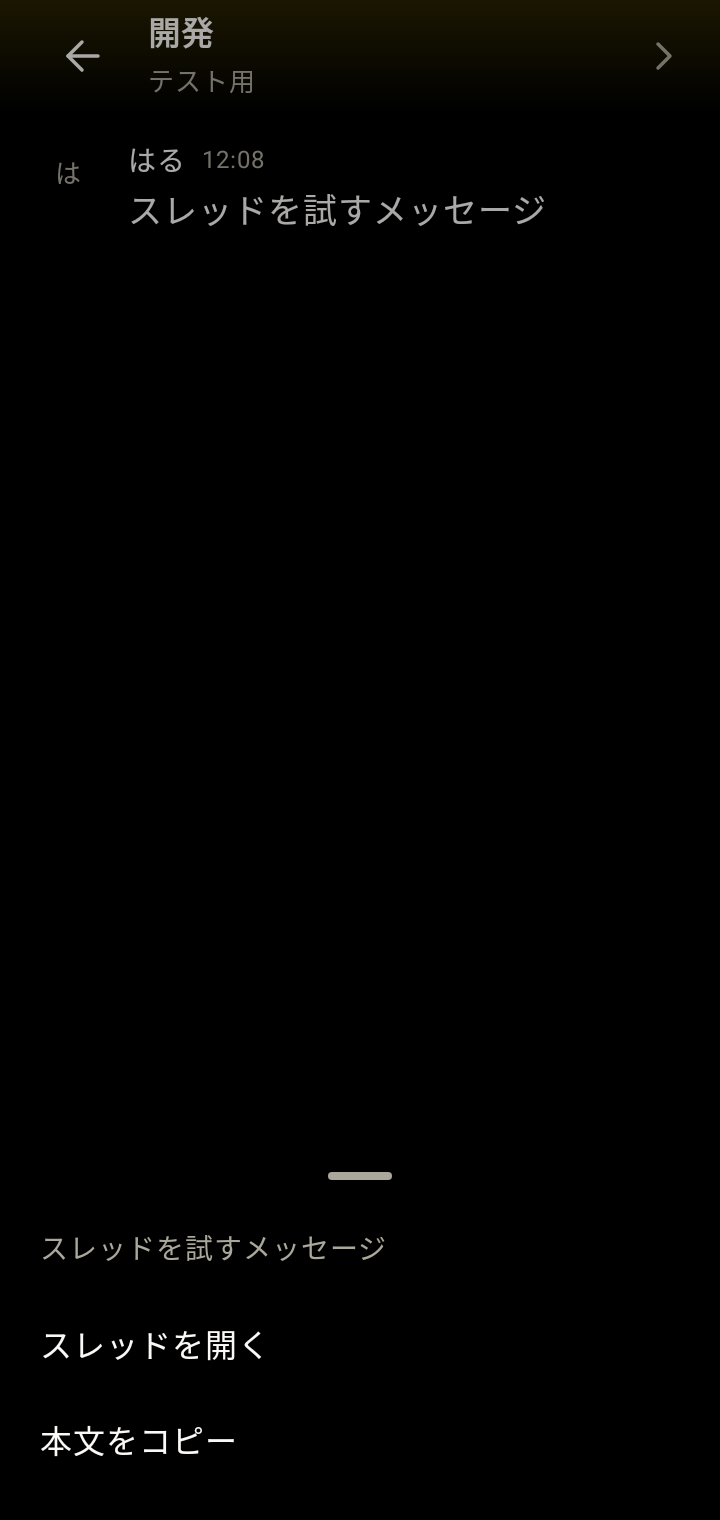
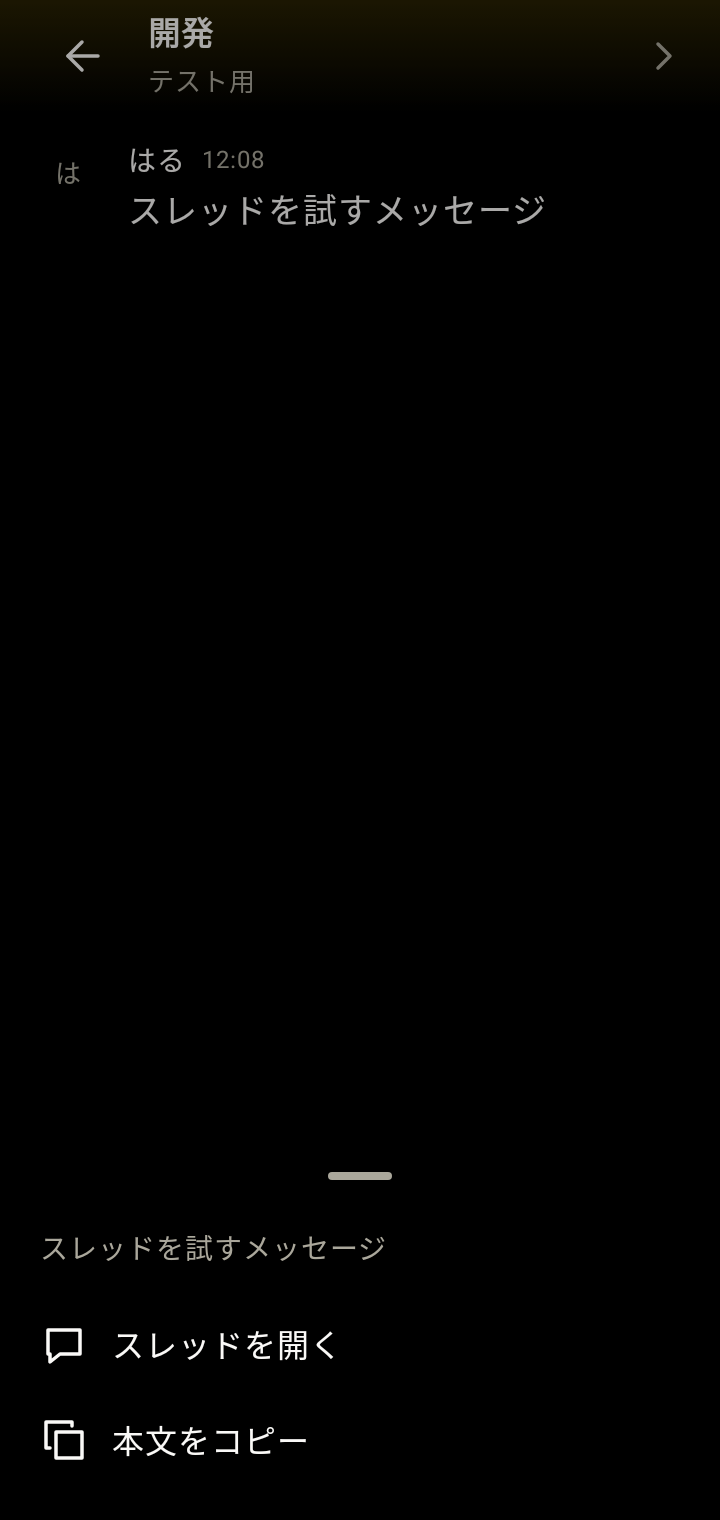
長押しメニューに操作ごとのアイコンを添える

Changed region(s): [[0.1528, 0.8658, 0.4583, 0.8967], [0.0611, 0.9276, 0.3667, 0.9586], [0.0611, 0.8658, 0.1222, 0.8967]]

diff --git a/frontend-compose/androidApp/src/main/kotlin/zoo/android/ui/EntryActionSheet.kt b/frontend-compose/androidApp/src/main/kotlin/zoo/android/ui/EntryActionSheet.kt
@@ -30,8 +30,15 @@ internal fun EntryActionSheet(
         Column(Modifier.fillMaxWidth().padding(start = 20.dp, end = 20.dp, bottom = 16.dp)) {
             Text(entry.body, color = colors.secondary, fontSize = 14.sp, maxLines = 2, overflow = TextOverflow.Ellipsis)
             Spacer(Modifier.height(12.dp))
-            if (open != null) SheetAction(if (posts) "投稿を開く" else "スレッドを開く", colors, open)
-            SheetAction("本文をコピー", colors) {
+            if (open != null) {
+                SheetAction(
+                    if (posts) UiIcon.Document else UiIcon.Bubble,
+                    if (posts) "投稿を開く" else "スレッドを開く",
+                    colors,
+                    open,
+                )
+            }
+            SheetAction(UiIcon.Copy, "本文をコピー", colors) {
                 scope.launch {
                     clipboard.setClipEntry(ClipEntry(ClipData.newPlainText(null, entry.body)))
                     dismiss()
@@ -42,12 +49,14 @@ internal fun EntryActionSheet(
 }
 
 @Composable
-private fun SheetAction(title: String, colors: AndroidColors, click: () -> Unit) {
-    Box(
+private fun SheetAction(icon: UiIcon, title: String, colors: AndroidColors, click: () -> Unit) {
+    Row(
         Modifier.fillMaxWidth().heightIn(min = AndroidControlSize.target)
             .clickable(role = Role.Button, onClick = click),
-        contentAlignment = Alignment.CenterStart,
+        verticalAlignment = Alignment.CenterVertically,
+        horizontalArrangement = Arrangement.spacedBy(12.dp),
     ) {
+        UiGlyph(icon, colors.foreground)
         Text(title, color = colors.foreground, fontWeight = AndroidWeights.label)
     }
 }

diff --git a/frontend-compose/androidApp/src/main/kotlin/zoo/android/ui/UiIcon.kt b/frontend-compose/androidApp/src/main/kotlin/zoo/android/ui/UiIcon.kt
@@ -33,7 +33,7 @@ internal object AndroidControlSize {
 }
 
 internal enum class UiIcon {
-    Back, Next, Home, Channels, Bell, Bubble, Settings, Send, Attach, Format, Emoji, Create,
+    Back, Next, Home, Channels, Bell, Bubble, Settings, Send, Attach, Format, Emoji, Create, Document, Copy,
 }
 
 @Composable
@@ -95,6 +95,16 @@ internal fun UiGlyph(icon: UiIcon, color: Color) {
                 drawArc(color, 0f, 180f, false, point(8f, 11f), Size(size.width / 3, size.height / 4), style = Stroke(width))
             }
             UiIcon.Create -> lines(5 to 15, 16 to 4, 20 to 8, 9 to 19, 4 to 20, 5 to 15)
+            UiIcon.Document -> {
+                lines(6 to 3, 14 to 3, 19 to 8, 19 to 21, 6 to 21, 6 to 3)
+                lines(14 to 3, 14 to 8, 19 to 8)
+                lines(9 to 12, 16 to 12)
+                lines(9 to 16, 16 to 16)
+            }
+            UiIcon.Copy -> {
+                lines(5 to 16, 3 to 16, 3 to 3, 16 to 3, 16 to 5)
+                lines(8 to 8, 21 to 8, 21 to 21, 8 to 21, 8 to 8)
+            }
         }
     }
 }

diff --git a/frontend-compose/ui-preview/src/test/kotlin/zoo/android/ui/AndroidSamplesTest.kt b/frontend-compose/ui-preview/src/test/kotlin/zoo/android/ui/AndroidSamplesTest.kt
@@ -183,6 +183,12 @@ class AndroidSamplesTest {
         ui.runOnIdle { check(pulses.size == 1) { "Expected a single threshold pulse: $pulses" } }
         ui.onNodeWithContentDescription("戻る").performClick()
         ui.onNodeWithText("開発").assertIsDisplayed()
+        ui.runOnIdle { screen = AndroidScreen.Home(listOf(root)); dark = false }
+        message.performTouchInput { longClick() }
+        ui.onNodeWithText("投稿を開く").assertIsDisplayed()
+        capture("post-menu-light", withSheet = true)
+        ui.runOnIdle { dark = true }
+        capture("post-menu-dark", withSheet = true)
     }
 
     private fun capture(name: String, withSheet: Boolean = false) {

diff --git a/docs/android-rebuild-samples.md b/docs/android-rebuild-samples.md
@@ -14,6 +14,7 @@
 | 全画面入力 | [ライト](images/android-design/rebuild/composer-light.png) | [ダーク](images/android-design/rebuild/composer-dark.png) |
 | スレッド | [ライト](images/android-design/rebuild/thread-light.png) | [ダーク](images/android-design/rebuild/thread-dark.png) |
 | メッセージの長押しメニュー | [ライト](images/android-design/rebuild/message-menu-light.png) | [ダーク](images/android-design/rebuild/message-menu-dark.png) |
+| ホーム投稿の長押しメニュー | [ライト](images/android-design/rebuild/post-menu-light.png) | [ダーク](images/android-design/rebuild/post-menu-dark.png) |
 | 投稿詳細 | [ライト](images/android-design/rebuild/post-light.png) | [ダーク](images/android-design/rebuild/post-dark.png) |
 | 新しい投稿 | [ライト](images/android-design/rebuild/post-compose-light.png) | [ダーク](images/android-design/rebuild/post-compose-dark.png) |
 | プロフィール | [ライト](images/android-design/rebuild/profile-light.png) | [ダーク](images/android-design/rebuild/profile-dark.png) |

diff --git a/docs/android-design.md b/docs/android-design.md
@@ -74,7 +74,7 @@ Androidの見た目を変更するときの基準。数値の定義元は
 Android公式の「24dpのアイコンと48dpのタッチ領域を分ける」例を採用する。
 
 
-ホーム投稿の下では、返信・再投稿・リアクションの件数を小さなアイコンと数字で表示する。操作は長押しの下部メニューと読み上げのカスタムアクションに置く。既存リアクションの選択状態は本文と区別する。
+ホーム投稿の下では、返信・再投稿・リアクションの件数を小さなアイコンと数字で表示する。操作は長押しの下部メニューと読み上げのカスタムアクションに置く。長押しメニューでは操作名の左に24dpのアイコンを添え、行全体をタップ領域にする。既存リアクションの選択状態は本文と区別する。
 
 ## チャンネルの入力
 
